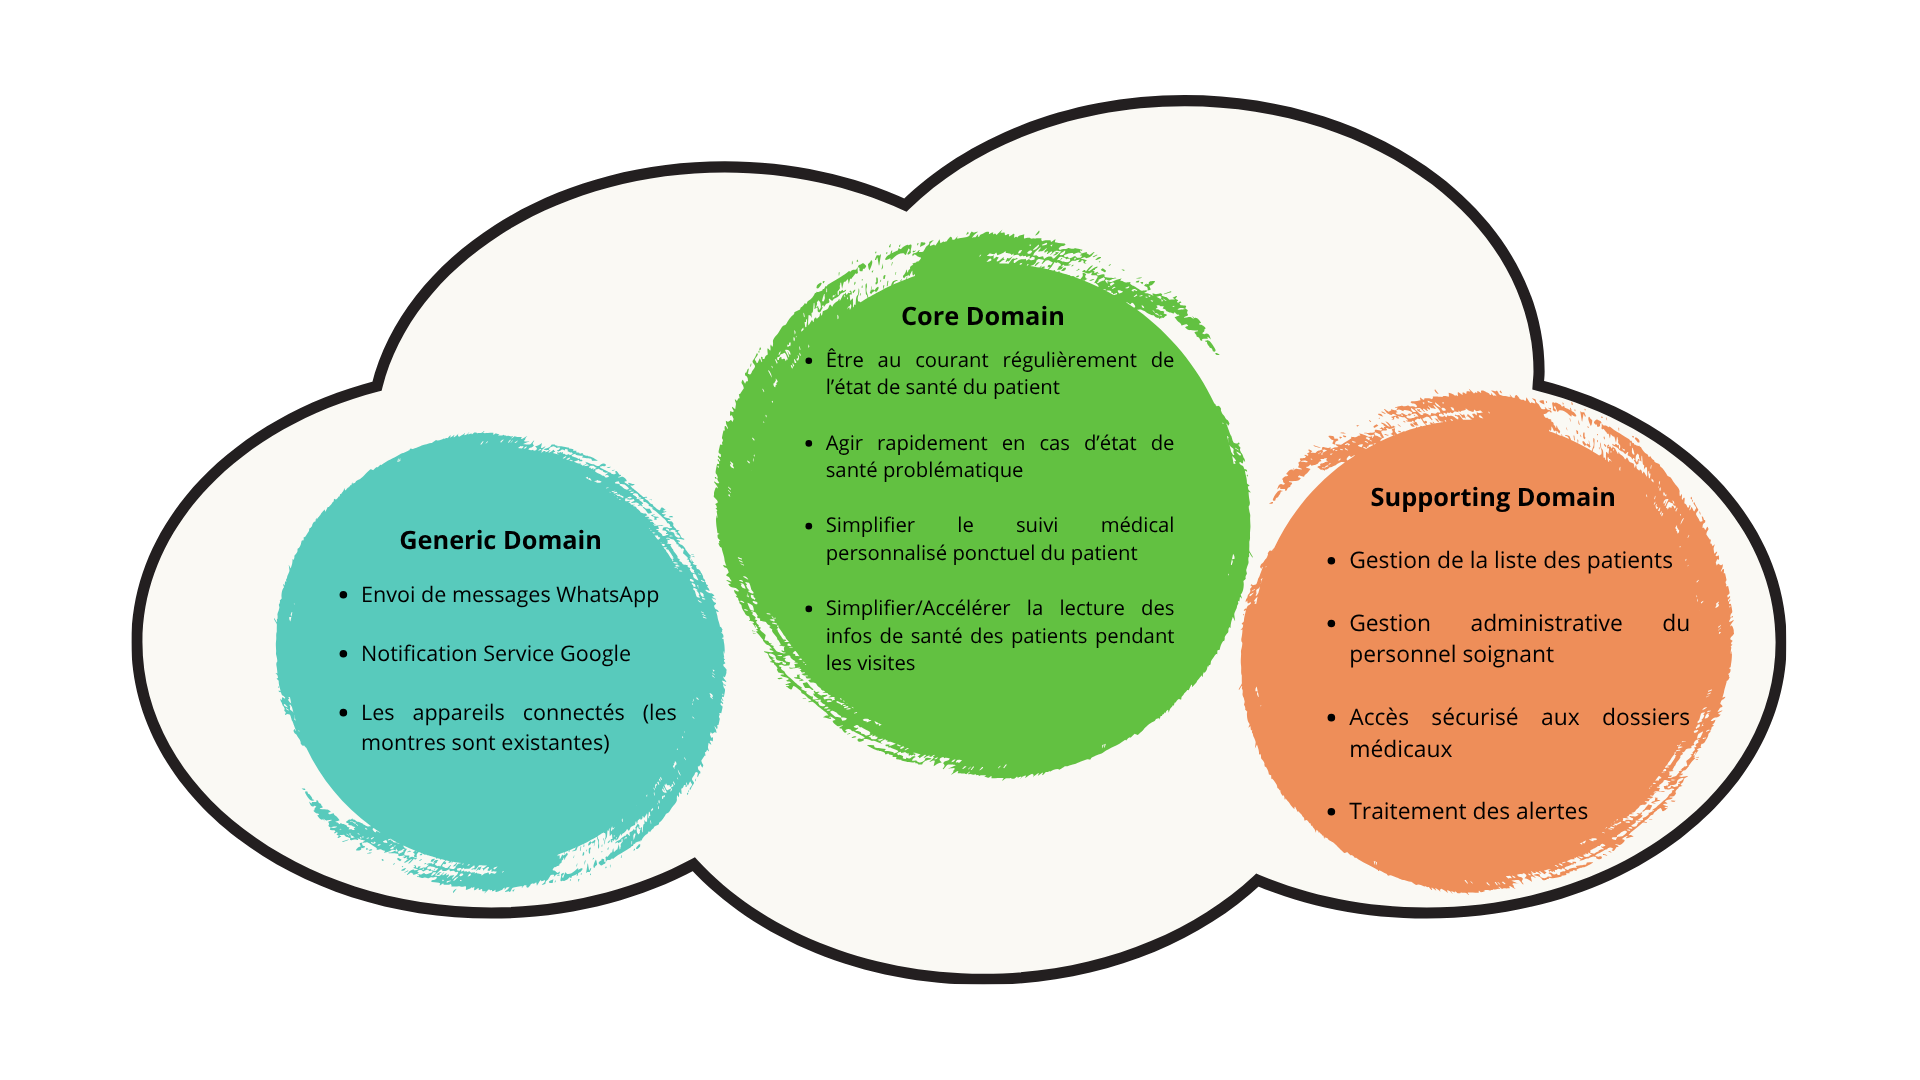
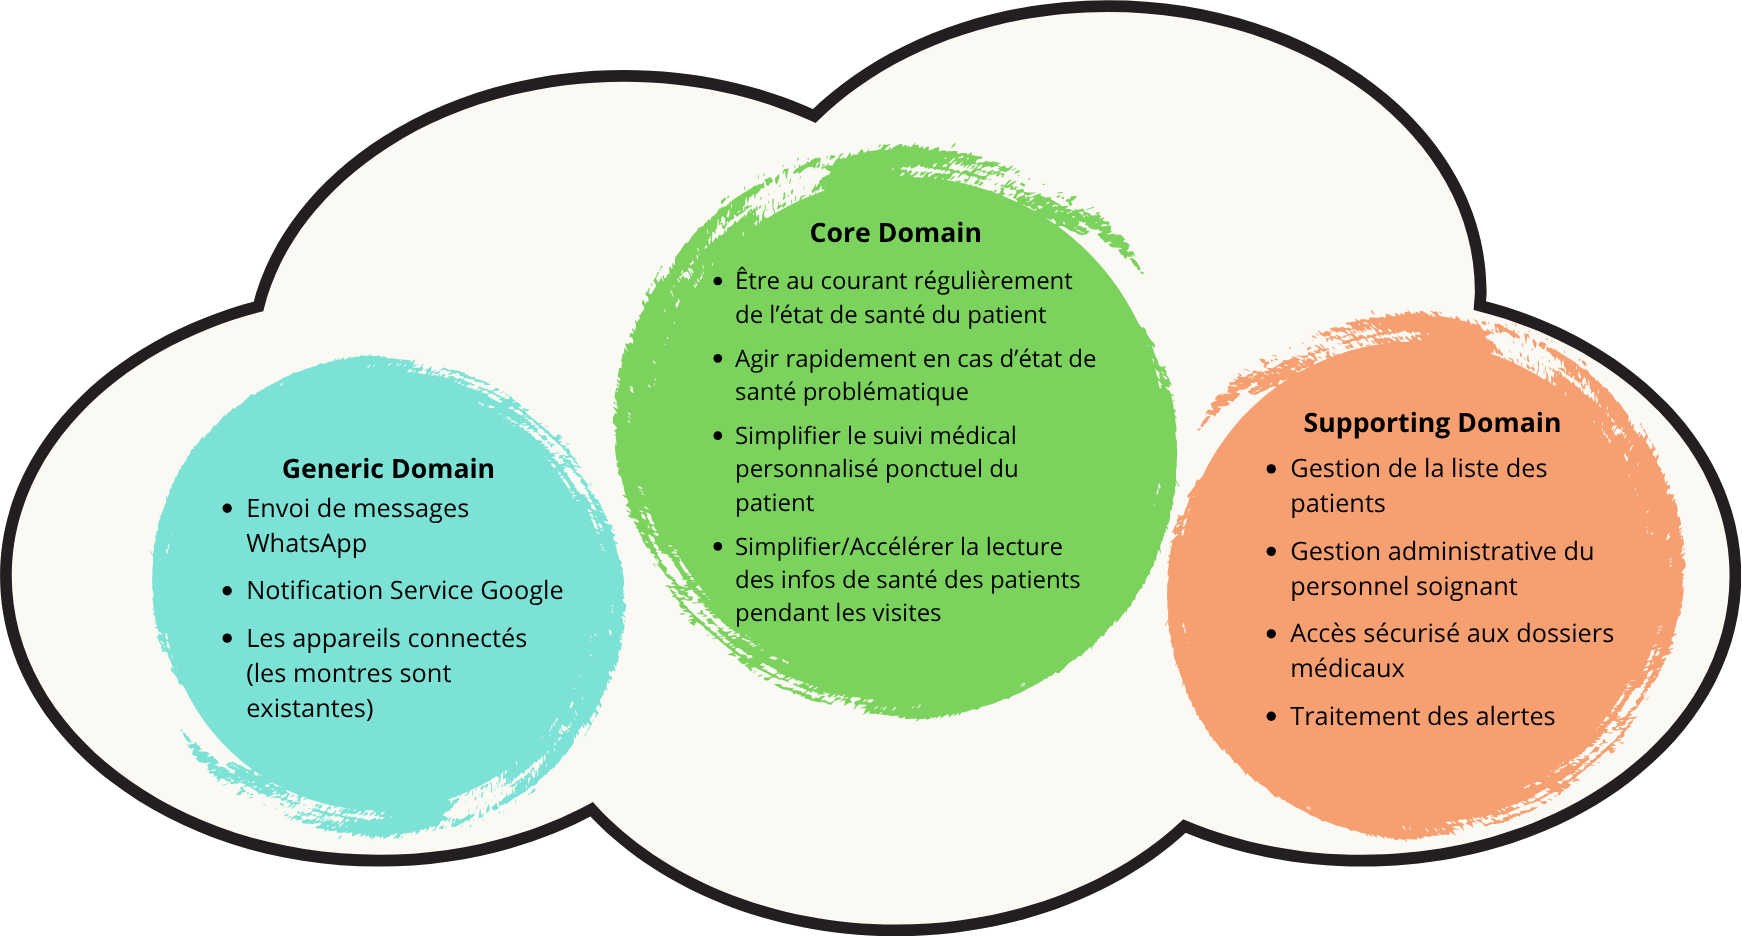
📝 Ajout des info manquante #44

diff --git a/README.md b/README.md
@@ -47,6 +47,11 @@ Les stations disposent d’un mécanisme de mise à jour automatique sécurisé 
 4. Installation sur une partition secondaire (avec backup).
 5. Rollback automatique en cas d’échec au démarrage.
 
+### Contraintes techniques
+
+- Une station = un patient (relation fixe).
+- Les objets connectés actuels ne sont pas évolutifs (pas de mise à jour firmware).
+- Intégration exclusive de nos propres appareils.
 
 ## Liste des fonctionnalités principales
 
@@ -83,7 +88,6 @@ Les stations disposent d’un mécanisme de mise à jour automatique sécurisé 
 - Supervision des instances et objets IoT.
 - Création / modification des instances de déploiement (stack complète par région).
 - Déploiement des mises à jour globales (backend et stations).
-
 
 ## User Stories
 
@@ -138,7 +142,7 @@ Les stations disposent d’un mécanisme de mise à jour automatique sécurisé 
 > afin de **garantir la mise à jour des systèmes et leur sécurité**
 
 
-## Découpage en domaines (DDD)
+## Découpage en domaines
 
 ![](./doc/images/DDD.png)
 
@@ -169,62 +173,6 @@ Les stations disposent d’un mécanisme de mise à jour automatique sécurisé 
 - Envoi de messages WhatsApp
 - Les appareils connectés (les montres sont existantes)
 
-## Contraintes techniques
-
-- Une station = un patient (relation fixe).
-- Les objets connectés actuels ne sont pas évolutifs (pas de mise à jour firmware).
-- Intégration exclusive de nos propres appareils.
-
-
-## Bases de données
-
-En savoir plus sur la measurementDB : [+ info](./databases/measurement-db/README.md)
-
-En savoir plus sur la userDB : [+ info](./databases/user-db/README.md)
-
-## Sécurité
-
-### Authentification Save Service
-
-Le save-service utilise des tokens Bearer pour authentifier les boitiers :
-
-- Tokens stockés en SHA-256 dans la table `boxes`
-- Header requis : `Authorization: Bearer <token>`
-- Tokens de test : `box1-secret-token`, `box2-secret-token`
-
-#### Exemple de génération de certificats
-
-- Créer une clé privée CA
-
-```shell
-openssl genrsa -out ca.key 4096
-```
-
-- Créer un certificat CA auto-signé
-
-```shell
-openssl req -x509 -new -nodes -key ca.key -sha256 -days 3650 -out ca.pem -subj "/CN=MyNatsCA"
-```
-
-- Créer une clé serveur
-
-```shell
-openssl genrsa -out server.key 2048
-```
-
-- CSR (demande de signature) selon le hostname du broker
-
-```shell
-openssl req -new -key server.key -out server.csr -subj "/CN=nats\-broker"
-```
-
-- Signer le certificat serveur avec la CA
-
-```shell
-openssl x509 -req -in server.csr -CA ca.pem -CAkey ca.key -CAcreateserial -out server.crt -days 365 -sha256
-```
-
-Le serveur requiert `server.crt` et `server.key` pour démarrer en TLS. Le client requiert `ca.pem` pour vérifier l'identité du broker lorsqu'il s'y connecte
 
 ## Analyse des risques
 
@@ -253,7 +201,7 @@ En combinant IoT, cloud, et supervision médicale, l’objectif est de réduire 
 ## Contribution globale de l'équipe
 
 | Nom             | Prenom   | Description des missions principales                                                                                                      |
-| --------------- | -------- | ----------------------------------------------------------------------------------------------------------------------------------------- |
+|  | -- | -- |
 | ALLAIN          | Emma     | Analyse de risques (matrices & bowties), client Nats du boitier, implémentation de la Buffer DB et de la communication BLE/GATT de l'IoT gateway |
 | BACON           | Roxane   | Analyse de risques (matrices & bowties), réflexion et implémentation de la userDB, documentation et illustration du sujet                 |
 | FADDA RODRIGUEZ | Antoine  | Implémentation de la pipeline, documentation, broker Nats du boitier                                                                      |

diff --git a/box/README.md b/box/README.md
@@ -23,7 +23,10 @@ Si malgré cela des mesures sont victimes d'un ransomware, elles seront racheté
 Pour éviter la réception de fausses données, une mécanisme de signature des échanges Bluetooth est mis en place. Chaque message envoyé à la Station est signé numériquement, et la Station vérifie la signature avant de traiter le message. Cela permet de s'assurer que les données proviennent bien d'une source authentique et n'ont pas été altérées en cours de route.
 
 ## Fonctionnement général
+À l'aide de conteneurs Docker, la Station exécute plusieurs services logiciels qui forment une pipeline d'ingestion des données reçues des capteurs via Bluetooth Low Energy (BLE).
+De cette manière, chaque service est isolé dans son propre conteneur, ce qui facilite la gestion, la mise à jour et le déploiement des différents composants.
 ### Diagramme de séquence de réception d’un message
+Cet évènement est déclenché à chaque réception d’un message BLE par le serveur BLE de la Station.
 ```mermaid
 sequenceDiagram
   participant m as Capteur
@@ -38,6 +41,7 @@ sequenceDiagram
   iotgw ->>-iotgw : stockage Buffer BDD
 ```
 ### Diagramme de séquence d'upload d’un batch de mesure
+Cet évènement est déclenché toutes les 30 minutes par le service Uploader de la Station. La fréquence d'upload n'est initialement pas plus importante car le système n'est pas conçu pour des mesures et analyse en temps réel, mais pour de la collecte de données environnementales sur le moyen/long terme.
 ```mermaid
 sequenceDiagram
   participant m as Capteur
@@ -108,9 +112,9 @@ Le broker NATS est utilisé pour faire transiter les messages entre les différe
 Le Software Updater est un service qui vérifie quotidiennement la présence de nouvelles versions du logiciel de la Station dans le Software Registry du cloud. Si une nouvelle version est disponible, il télécharge l'image docker correspondante et met à jour le composant concerné. Il peut, en cas d'erreur, revenir à la version précédente pour assurer la continuité du service.
 Il sera codé en Shell et lancé par une tâche cron quotidienne.
 
-### Données échangées
+## Données échangées
 
-#### Serveur BLE -> Cleaner
+### Serveur BLE -> Cleaner
 
 Queue : MEASUREMENT.to_clean
 
@@ -122,9 +126,8 @@ Queue : MEASUREMENT.to_clean
     "timestamp": string
 }
 ```
-```
 
-#### Cleaner -> Normalizer
+### Cleaner -> Normalizer
 
 Queue : MEASUREMENT.to_normalize
 
@@ -137,7 +140,7 @@ Queue : MEASUREMENT.to_normalize
 }
 ```
 
-#### Normalizer -> Outlier filter
+### Normalizer -> Outlier filter
 
 Queue : MEASUREMENT.to_outlierfilter
 
@@ -149,7 +152,7 @@ Queue : MEASUREMENT.to_outlierfilter
     "timestamp": string
 }
 ```
-#### Outlier filter -> Buffer BDD
+### Outlier filter -> Buffer BDD
 
 ```json
 {
@@ -160,7 +163,7 @@ Queue : MEASUREMENT.to_outlierfilter
 }
 ```
 
-#### Uploader -> Save Service
+### Uploader -> Save Service
 Via appel REST HTTPS : POST /measurements
 
 ```json

diff --git a/doc/architecture.md b/doc/architecture.md
@@ -1,28 +1,47 @@
 # Architecture
 ## Les composants
+
 ![Architecture Diagram](./images/archi.png)
 
 **Légende :**
-- →  : Échange de données
-- ☐ : Composant logiciel
-- ⛁ : Base de données
+- → : Échange de données
+- | Composant | : Composant logiciel
+- ( Database ) : Base de données
+- [| Software Registry |] : Registry de nos images docker
 
 
 ## Digramme en couches IoT
+
 ![IoT Layers Diagram](./images/archi-couches-iot.png)
+
 **Légende :**
-- →  : Échange de données
-- ☐ : Composant logiciel
-- ⛁ : Base de données
+- → : Échange de données
+- | Composant | : Composant logiciel
+- ( Database ) : Base de données
+- [| Software Registry |] : Registry de nos images docker
 
 
 ## Diagramme technique  softwares échanges réseau
+
 Le diagramme ci-dessous illustre la technologie utilisée pour chaque composant logiciel et les type d'échanges réseau entre eux.
+
 ![Technical Diagram](./images/archi-technique.png)
+
 **Légende :**
-- →  : Échange de données
-- ☐ : Composant logiciel
-- ⛁ : Base de données
+- → : Échange de données
+- | Composant | : Composant logiciel
+- ( Database ) : Base de données
+- [| Software Registry |] : Registry de nos images docker
+
+### Possibilité de déploiement Azure
+
+![Azure Deployment Diagram](./images/archi-azure.png)
+
+**Légende :**
+- → : Échange de données
+- | Composant | : Composant logiciel
+- ( Database ) : Base de données
+- [| Software Registry |] : Registry de nos images docker
 
 ## Description des composants
 ### Appareils connectés
@@ -33,3 +52,4 @@ L'ensemble des informations concernant les composants logiciels de la station Io
 
 ### Cloud Backend
 Les informations concernant les composants logiciels du Cloud Backend sont recensées [ici](./CLOUD.md#composants-logiciels).
+

diff --git a/box/gatt-server/readme.md b/box/gatt-server/readme.md
@@ -5,7 +5,7 @@ L’image de ce service est intégrée dans le **docker-compose de la montre con
 
 ## 🛰 Différence architecture/POC
 
-Dans l’architecture **initialement prévue**, ce composant devait être un serveur **Bluetooth GATT** chargé de recevoir les données des objets connectés (montres, capteurs, etc.) via une **communication BLE**.
+Dans l’architecture **initialement prévue**, ce composant devait être un serveur **Bluetooth Low Energy GATT** chargé de recevoir les données des objets connectés (montres, capteurs, etc.) via une **communication BLE**.
 Cependant, dans le cadre de ce POC, nous avons choisi d’implémenter **une version REST** du serveur afin de pouvoir tester et valider les échanges sans dépendre de matériel physique (comme un Raspberry Pi ou un dongle Bluetooth).
 
 ## 🚀 Fonctionnalités

diff --git a/doc/RISQUES.md b/doc/RISQUES.md
@@ -17,7 +17,7 @@ Le save-service utilise des tokens Bearer pour authentifier les boitiers :
 - Header requis : `Authorization: Bearer <token>`
 - Tokens de test : `box1-secret-token`, `box2-secret-token`
 
-#### Exemple de génération de certificats
+### Exemple de génération de certificats pour mettre en place HTTPS
 
 - Créer une clé privée CA
 
@@ -37,10 +37,10 @@ openssl req -x509 -new -nodes -key ca.key -sha256 -days 3650 -out ca.pem -subj "
 openssl genrsa -out server.key 2048
 ```
 
-- CSR (demande de signature) selon le hostname du broker
+- CSR (demande de signature) selon le hostname du serveur
 
 ```shell
-openssl req -new -key server.key -out server.csr -subj "/CN=nats\-broker"
+openssl req -new -key server.key -out server.csr -subj "/CN=domaine.exemple.com"
 ```
 
 - Signer le certificat serveur avec la CA

diff --git a/devices/README.md b/devices/README.md
@@ -1,0 +1,6 @@
+# Appareils connectés
+Les appareils connectés utilisables dans notre système sont des objets déjà présents sur le marché mais que nos administrateurs et techniciens doivent relier au système. Ceux-ci doivent transmettre les mesures prises dans des messages Bluetooth Low Energy (BLE) selon le protocole GATT (Generic Attribute Profile).
+
+Aussi, ils ne doivent inclure qu'une mesure par message dans le cas d'un objet mesurant plusieurs paramètres (par exemple une montre connectée mesurant la température, la fréquence cardiaque et le nombre de pas).
+
+De plus, les mises à jour des firmwares des appareils doivent être gérées en dehors de notre système, ce n'est pas une fonctionnalité à notre charge.

diff --git a/doc/CLOUD.md b/doc/CLOUD.md
@@ -74,7 +74,7 @@ L'Analyse Service est responsable de l'analyse des mesures stockées dans la Mea
       
         ```json
         {
-          "requireAttention" : boolean,
+          "severity" : CRITICAL | HIGH | MEDIUM | LOW
           "reason" : string | null
         }
         ```
